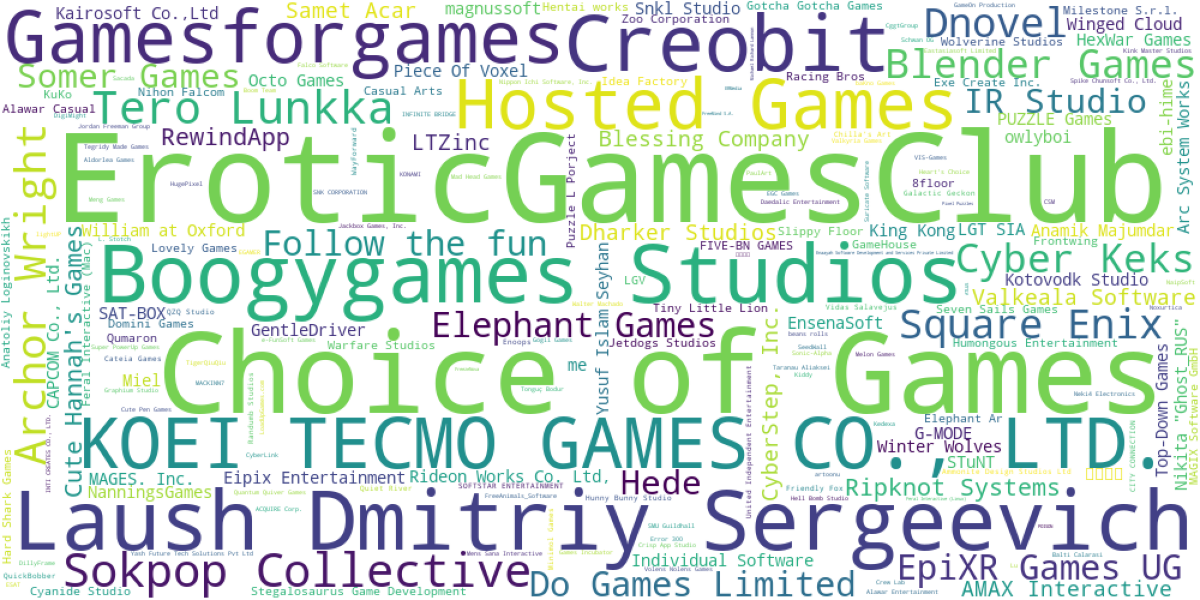
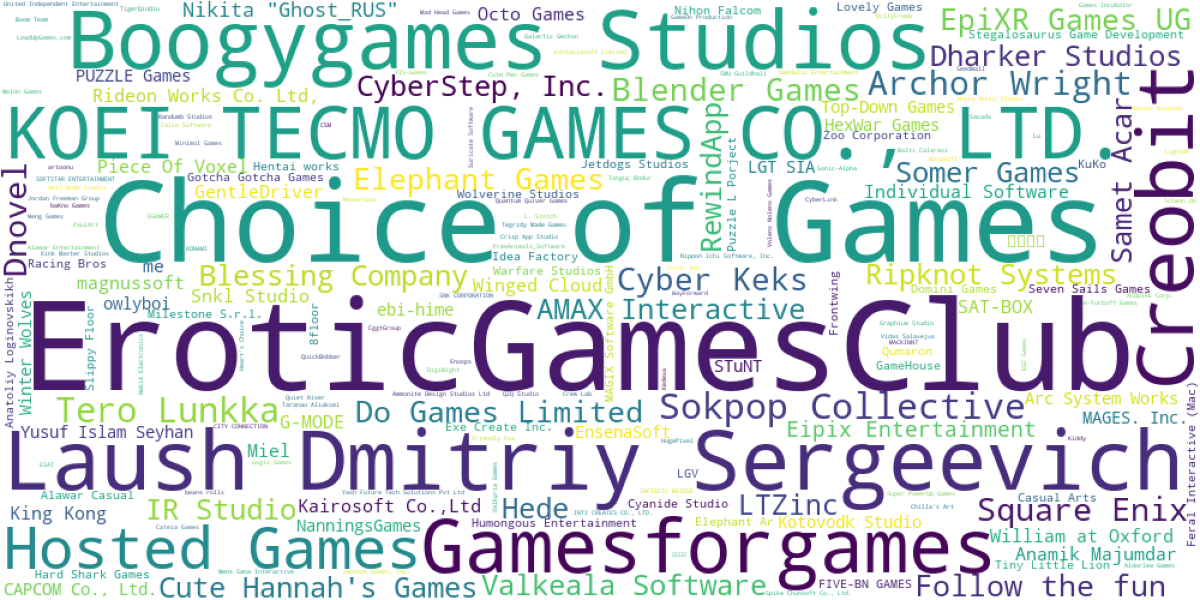
Modificacion Practica 9

diff --git a/Practica 9/word_clouds.py b/Practica 9/word_clouds.py
@@ -1,0 +1,57 @@
+from wordcloud import WordCloud
+from collections import Counter
+import pandas as pd
+import matplotlib.pyplot as plt
+import ast
+from tabulate import tabulate
+
+def cloud_column(df, columna, tipo):
+    palabras = []
+
+    if tipo == "lista":
+        for p in df[columna].dropna():
+            p = ast.literal_eval(p)
+            palabras.extend(p)
+    elif tipo == "texto":
+
+        filler = ["the", "and", "a", "at", "to", "of", "in", "is", "you", "your", "with", "will", "when", "why", "what", "who", "be", "but", "an", "on", "as", "for", "has", "that", "this", "by", "from", "where", "can", "are", "or", "it", "into", "their", "have"]
+
+        for p in df[columna].dropna():
+            p = str(p).lower().split()
+            for s in p:
+                if s not in filler:
+                    palabras.append(s)
+    else:
+        print("Tipo desconocido.")
+        return
+
+    frecuencias = Counter(palabras)
+
+    nube = WordCloud(
+        width=1000,
+        height=500,
+        background_color="white"
+    ).generate_from_frequencies(frecuencias)
+
+    plt.figure(figsize=(12, 6))
+    plt.imshow(nube)
+    plt.axis("off")
+    plt.tight_layout(pad=0)
+    plt.savefig(f"Practica 9/{columna}_wordcloud.png")
+    plt.close()
+
+    print(f"\nPalabras mas frecuentes en {columna}:")
+    print(tabulate(frecuencias.most_common(20),headers=[columna, 'Frecuencia'],tablefmt='orgtbl'))
+
+    print("\n")
+
+
+df = pd.read_csv("./Practica 1/dataset/steam.csv")
+
+
+cloud_column(df, "categories", "lista")
+cloud_column(df, "genres", "lista")
+cloud_column(df, "developers", "lista")
+cloud_column(df, "publishers", "lista")
+cloud_column(df, "name", "texto")
+cloud_column(df, "short_description", "texto")
